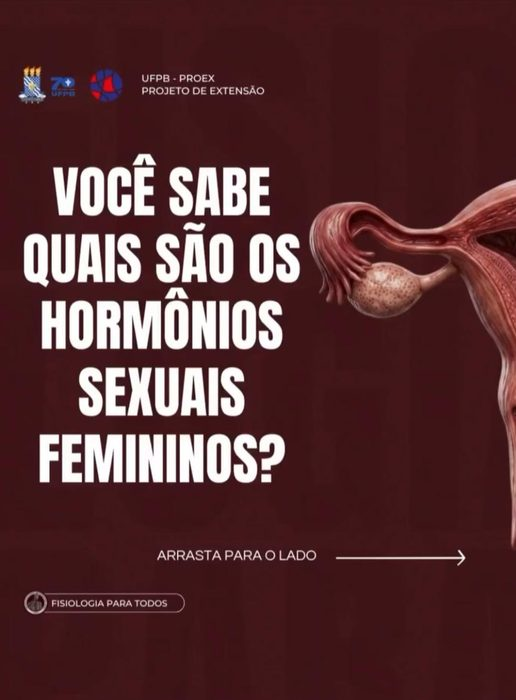
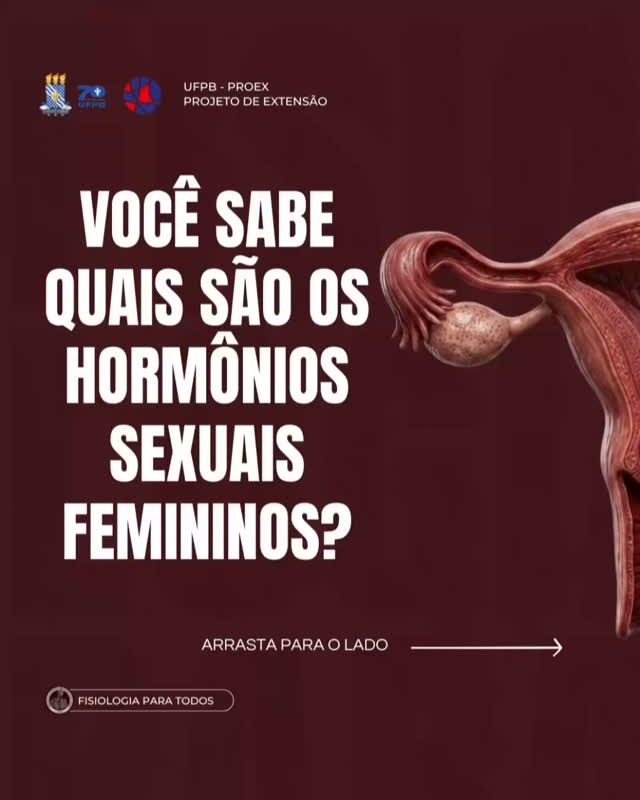
Atualiza posts do Instagram e destaca o episódio mais recente
- Instagram: 5 reels (reposição hormonal, terapia hormonal, menopausa,
  testosterona, hormônios femininos), capas limpas em 4:5 e grade uniforme
- Podcast: player do Spotify com o episódio "Hormônios Sexuais, Abuso e
  Identidade"; botão leva para todos os episódios
- Temas: inclui Menopausa e Terapia hormonal

diff --git a/index.html b/index.html
@@ -143,8 +143,13 @@
           <p class="tag">Podcast</p>
           <h2>Falas do Corpo</h2>
           <p>Episódios curtos que colocam a fisiologia humana em linguagem simples, com roteiro validado por especialistas antes de ir ao ar.</p>
+          <!-- Para trocar o episódio em destaque: copie o ID do link do episódio no Spotify (open.spotify.com/episode/<ID>) para o src e ajuste o title -->
+          <div class="episode">
+            <h3 class="label label--peach">Episódio mais recente</h3>
+            <iframe class="episode__player" title="Player do Spotify: Falas do Corpo — Hormônios Sexuais, Abuso e Identidade" src="https://open.spotify.com/embed/episode/4z3NnkRdAw1mNrOgxkKGnE?utm_source=generator&amp;theme=0" width="100%" height="152" allow="autoplay; clipboard-write; encrypted-media; fullscreen; picture-in-picture" loading="lazy"></iframe>
+          </div>
           <a class="btn btn--light" href="https://open.spotify.com/show/7LNqCR72bxQwGgIxuo63lD" target="_blank" rel="noopener">
-            Ouvir no Spotify
+            Todos os episódios
             <svg class="btn__icon" width="16" height="16" viewBox="0 0 16 16" aria-hidden="true"><path d="M3 8h10M9 4l4 4-4 4"/></svg>
           </a>
         </div>
@@ -165,6 +170,8 @@
           <ul class="chips">
             <li>Testosterona</li>
             <li>Hormônios sexuais femininos</li>
+            <li>Menopausa</li>
+            <li>Terapia hormonal</li>
             <li>A ressaca, explicada</li>
             <li>Quanto de água beber por dia</li>
             <li>Pressão arterial</li>
@@ -235,19 +242,27 @@
         </a>
       </div>
 
-      <!-- Para adicionar um post: copie um <li>, troque link, imagem (com width/height reais) e legenda; --r = largura ÷ altura da imagem -->
+      <!-- Para adicionar um post: copie um <li>, troque o link, a capa (recorte 4:5, ex. 640x800, em assets/) e a legenda -->
       <ul class="posts">
-        <li class="reveal"><a class="post" href="https://www.instagram.com/reel/DYxnA-ITQJa/" target="_blank" rel="noopener" style="--r: 0.461">
-          <img src="assets/post-ressaca.jpg" alt="" width="323" height="700" loading="lazy">
-          <span class="post__caption">O que é a ressaca para a fisiologia?</span>
+        <li class="reveal"><a class="post" href="https://www.instagram.com/reel/Dd1VtuEzJPm/" target="_blank" rel="noopener">
+          <img src="assets/post-reposicao-hormonal.jpg" alt="" width="640" height="800" loading="lazy">
+          <span class="post__caption">Reposição hormonal: a principal deficiência</span>
         </a></li>
-        <li class="reveal"><a class="post" href="https://www.instagram.com/reel/DZX_z67TxpD/" target="_blank" rel="noopener" style="--r: 0.737">
-          <img src="assets/post-hormonios.jpg" alt="" width="516" height="700" loading="lazy">
-          <span class="post__caption">Você sabe quais são os hormônios sexuais femininos?</span>
+        <li class="reveal"><a class="post" href="https://www.instagram.com/reel/DayV-Q2TfvQ/" target="_blank" rel="noopener">
+          <img src="assets/post-terapia-hormonal.jpg" alt="" width="640" height="800" loading="lazy">
+          <span class="post__caption">Terapia hormonal: quando é indicada e quais os cuidados</span>
         </a></li>
-        <li class="reveal"><a class="post" href="https://www.instagram.com/reel/DZqOj3dzODC/" target="_blank" rel="noopener" style="--r: 0.809">
-          <img src="assets/post-testosterona.jpg" alt="" width="566" height="700" loading="lazy">
+        <li class="reveal"><a class="post" href="https://www.instagram.com/reel/DajEdiqzco5/" target="_blank" rel="noopener">
+          <img src="assets/post-menopausa.jpg" alt="" width="640" height="800" loading="lazy">
+          <span class="post__caption">Você sabe o que é a menopausa?</span>
+        </a></li>
+        <li class="reveal"><a class="post" href="https://www.instagram.com/reel/DZqOj3dzODC/" target="_blank" rel="noopener">
+          <img src="assets/post-testosterona.jpg" alt="" width="640" height="800" loading="lazy">
           <span class="post__caption">Você sabe o que é a testosterona?</span>
+        </a></li>
+        <li class="reveal"><a class="post" href="https://www.instagram.com/reel/DZX_z67TxpD/" target="_blank" rel="noopener">
+          <img src="assets/post-hormonios.jpg" alt="" width="640" height="800" loading="lazy">
+          <span class="post__caption">Você sabe quais são os hormônios sexuais femininos?</span>
         </a></li>
       </ul>
     </div>

diff --git a/styles.css b/styles.css
@@ -514,11 +514,21 @@ h1 em, h2 em {
   line-height: 0.95;
   letter-spacing: -0.02em;
 }
-.podcast__text p:not(.tag) {
+.podcast__text > p:not(.tag) {
   margin: 24px 0 28px;
   color: rgba(var(--cream-rgb), 0.75);
   font-size: 18px;
   line-height: 1.5;
+}
+
+.episode { margin-bottom: 28px; }
+.episode .label { margin-bottom: 12px; }
+.episode__player {
+  display: block;
+  width: 100%;
+  height: 152px;
+  border: 0;
+  border-radius: 12px;
 }
 
 .wave {
@@ -618,7 +628,6 @@ h1 em, h2 em {
 
 /* ---------- Instagram ---------- */
 .instagram {
-  --post-h: clamp(340px, 36vw, 460px);
   padding: var(--section-y) 0;
   background: var(--bordo);
   color: var(--cream);
@@ -626,15 +635,15 @@ h1 em, h2 em {
 .instagram .h2 em { color: var(--peach); }
 
 .posts {
-  display: flex;
-  justify-content: center;
-  align-items: flex-start;
-  gap: 24px;
+  display: grid;
+  grid-template-columns: repeat(5, minmax(0, 1fr));
+  gap: 20px;
 }
 .post {
   display: block;
-  padding: 12px 12px 18px;
-  border-radius: 26px;
+  height: 100%;
+  padding: 10px 10px 16px;
+  border-radius: 22px;
   background: var(--paper);
   color: var(--ink);
   box-shadow: 0 20px 50px rgba(20, 5, 5, 0.3);
@@ -643,15 +652,16 @@ h1 em, h2 em {
 .post:hover { transform: translateY(-4px); }
 .post img {
   display: block;
-  width: calc(var(--post-h) * var(--r));
-  height: var(--post-h);
-  border-radius: 16px;
+  width: 100%;
+  height: auto;
+  aspect-ratio: 4 / 5;
+  border-radius: 14px;
   object-fit: cover;
 }
 .post__caption {
   display: block;
-  width: calc(var(--post-h) * var(--r));
-  margin-top: 14px;
+  margin-top: 12px;
+  padding-inline: 4px;
   font-size: 15px;
   font-weight: 500;
   line-height: 1.4;
@@ -784,7 +794,7 @@ h1 em, h2 em {
   }
   .nav__menu .btn { justify-content: center; }
 
-  .lessons {
+  .lessons, .posts {
     display: grid;
     grid-template-columns: none;
     grid-auto-flow: column;
@@ -796,8 +806,10 @@ h1 em, h2 em {
     scroll-padding-inline: var(--gutter);
     scrollbar-width: none;
   }
-  .lessons::-webkit-scrollbar { display: none; }
-  .lessons li { scroll-snap-align: start; }
+  .posts { padding-bottom: 8px; }
+  .lessons::-webkit-scrollbar, .posts::-webkit-scrollbar { display: none; }
+  .lessons li, .posts li { scroll-snap-align: start; }
+  .post { box-shadow: none; }
 
   .channels { grid-template-columns: repeat(2, minmax(0, 1fr)); }
 }
@@ -844,7 +856,7 @@ h1 em, h2 em {
     padding: 32px 24px;
     border-radius: 28px;
   }
-  .podcast__text p:not(.tag) { font-size: 16px; }
+  .podcast__text > p:not(.tag) { font-size: 16px; }
   .wave { height: 96px; }
   .wave span { width: 5px; border-radius: 3px; }
   .chips { gap: 8px; }
@@ -856,20 +868,7 @@ h1 em, h2 em {
   .lessons, .posts { order: 2; }
   .section-head__cta { order: 3; align-self: flex-start; }
 
-  .instagram { --post-h: 340px; }
-  .posts {
-    justify-content: flex-start;
-    gap: 14px;
-    overflow-x: auto;
-    scroll-snap-type: x mandatory;
-    margin-inline: calc(-1 * var(--gutter));
-    padding: 0 var(--gutter) 8px;
-    scroll-padding-inline: var(--gutter);
-    scrollbar-width: none;
-  }
-  .posts::-webkit-scrollbar { display: none; }
-  .posts li { flex: none; scroll-snap-align: start; }
-  .post { padding: 10px 10px 16px; border-radius: 22px; box-shadow: none; }
+  .posts { gap: 14px; }
   .post__caption { font-size: 14px; }
 
   .channels { margin-top: 40px; }
